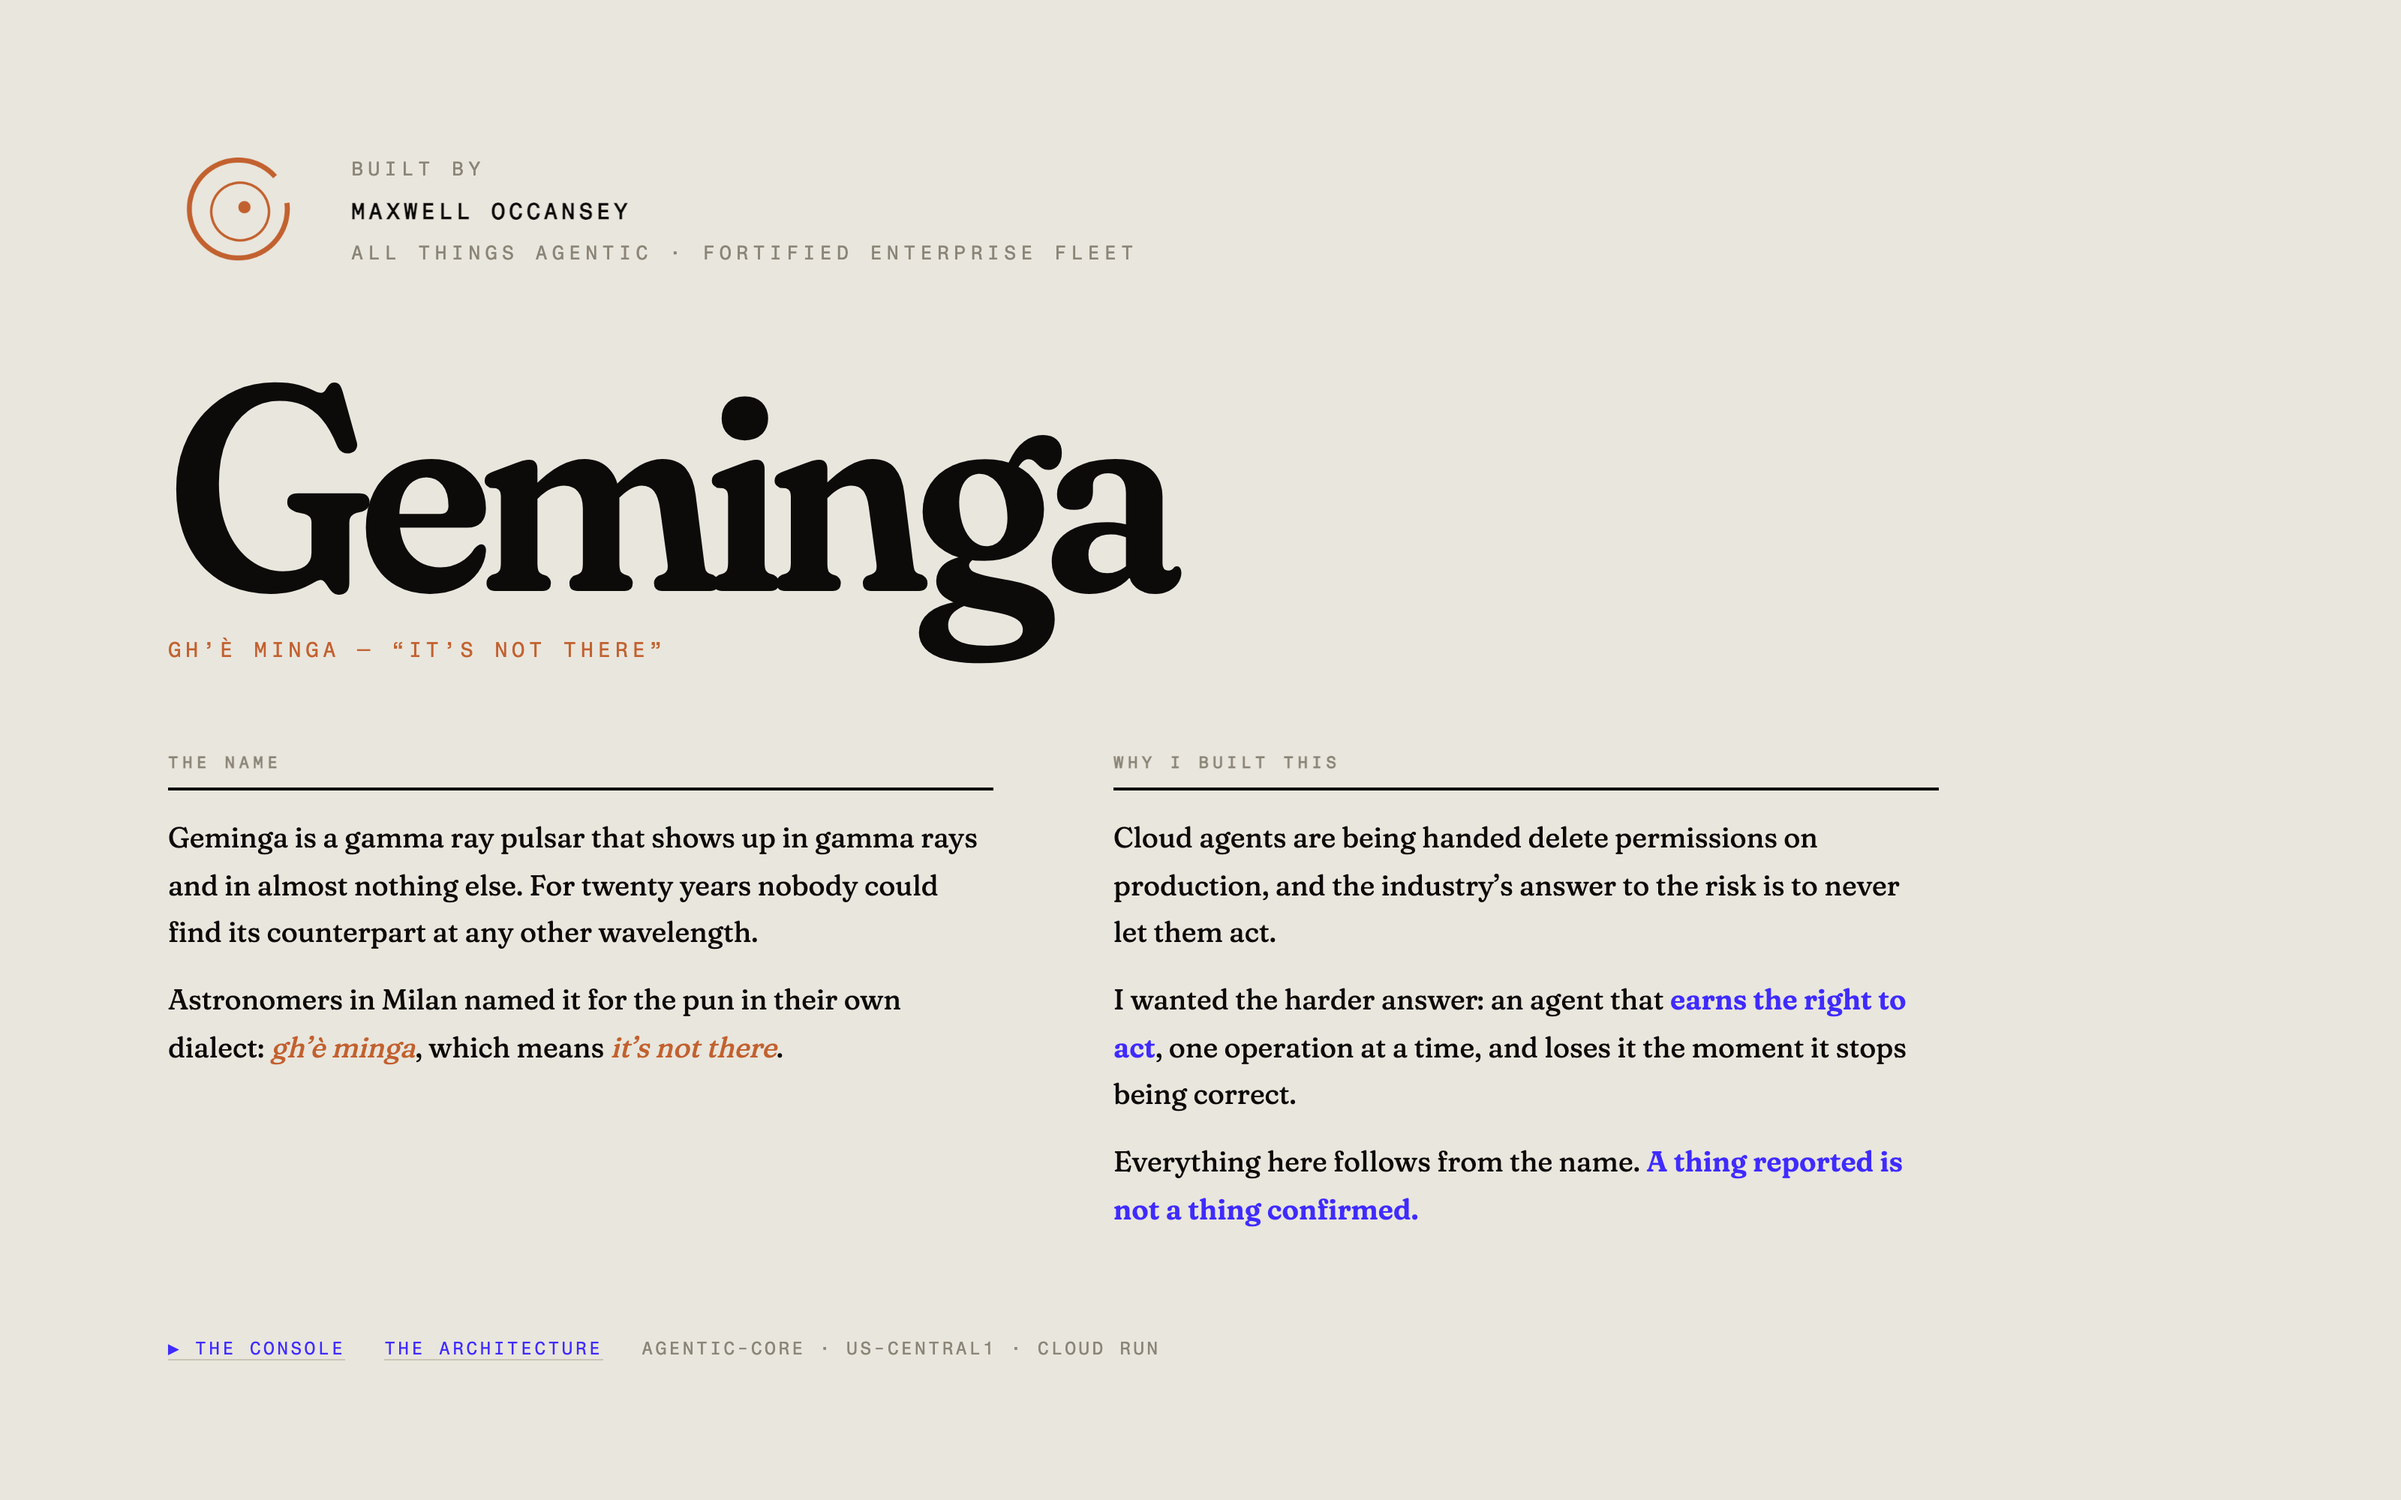
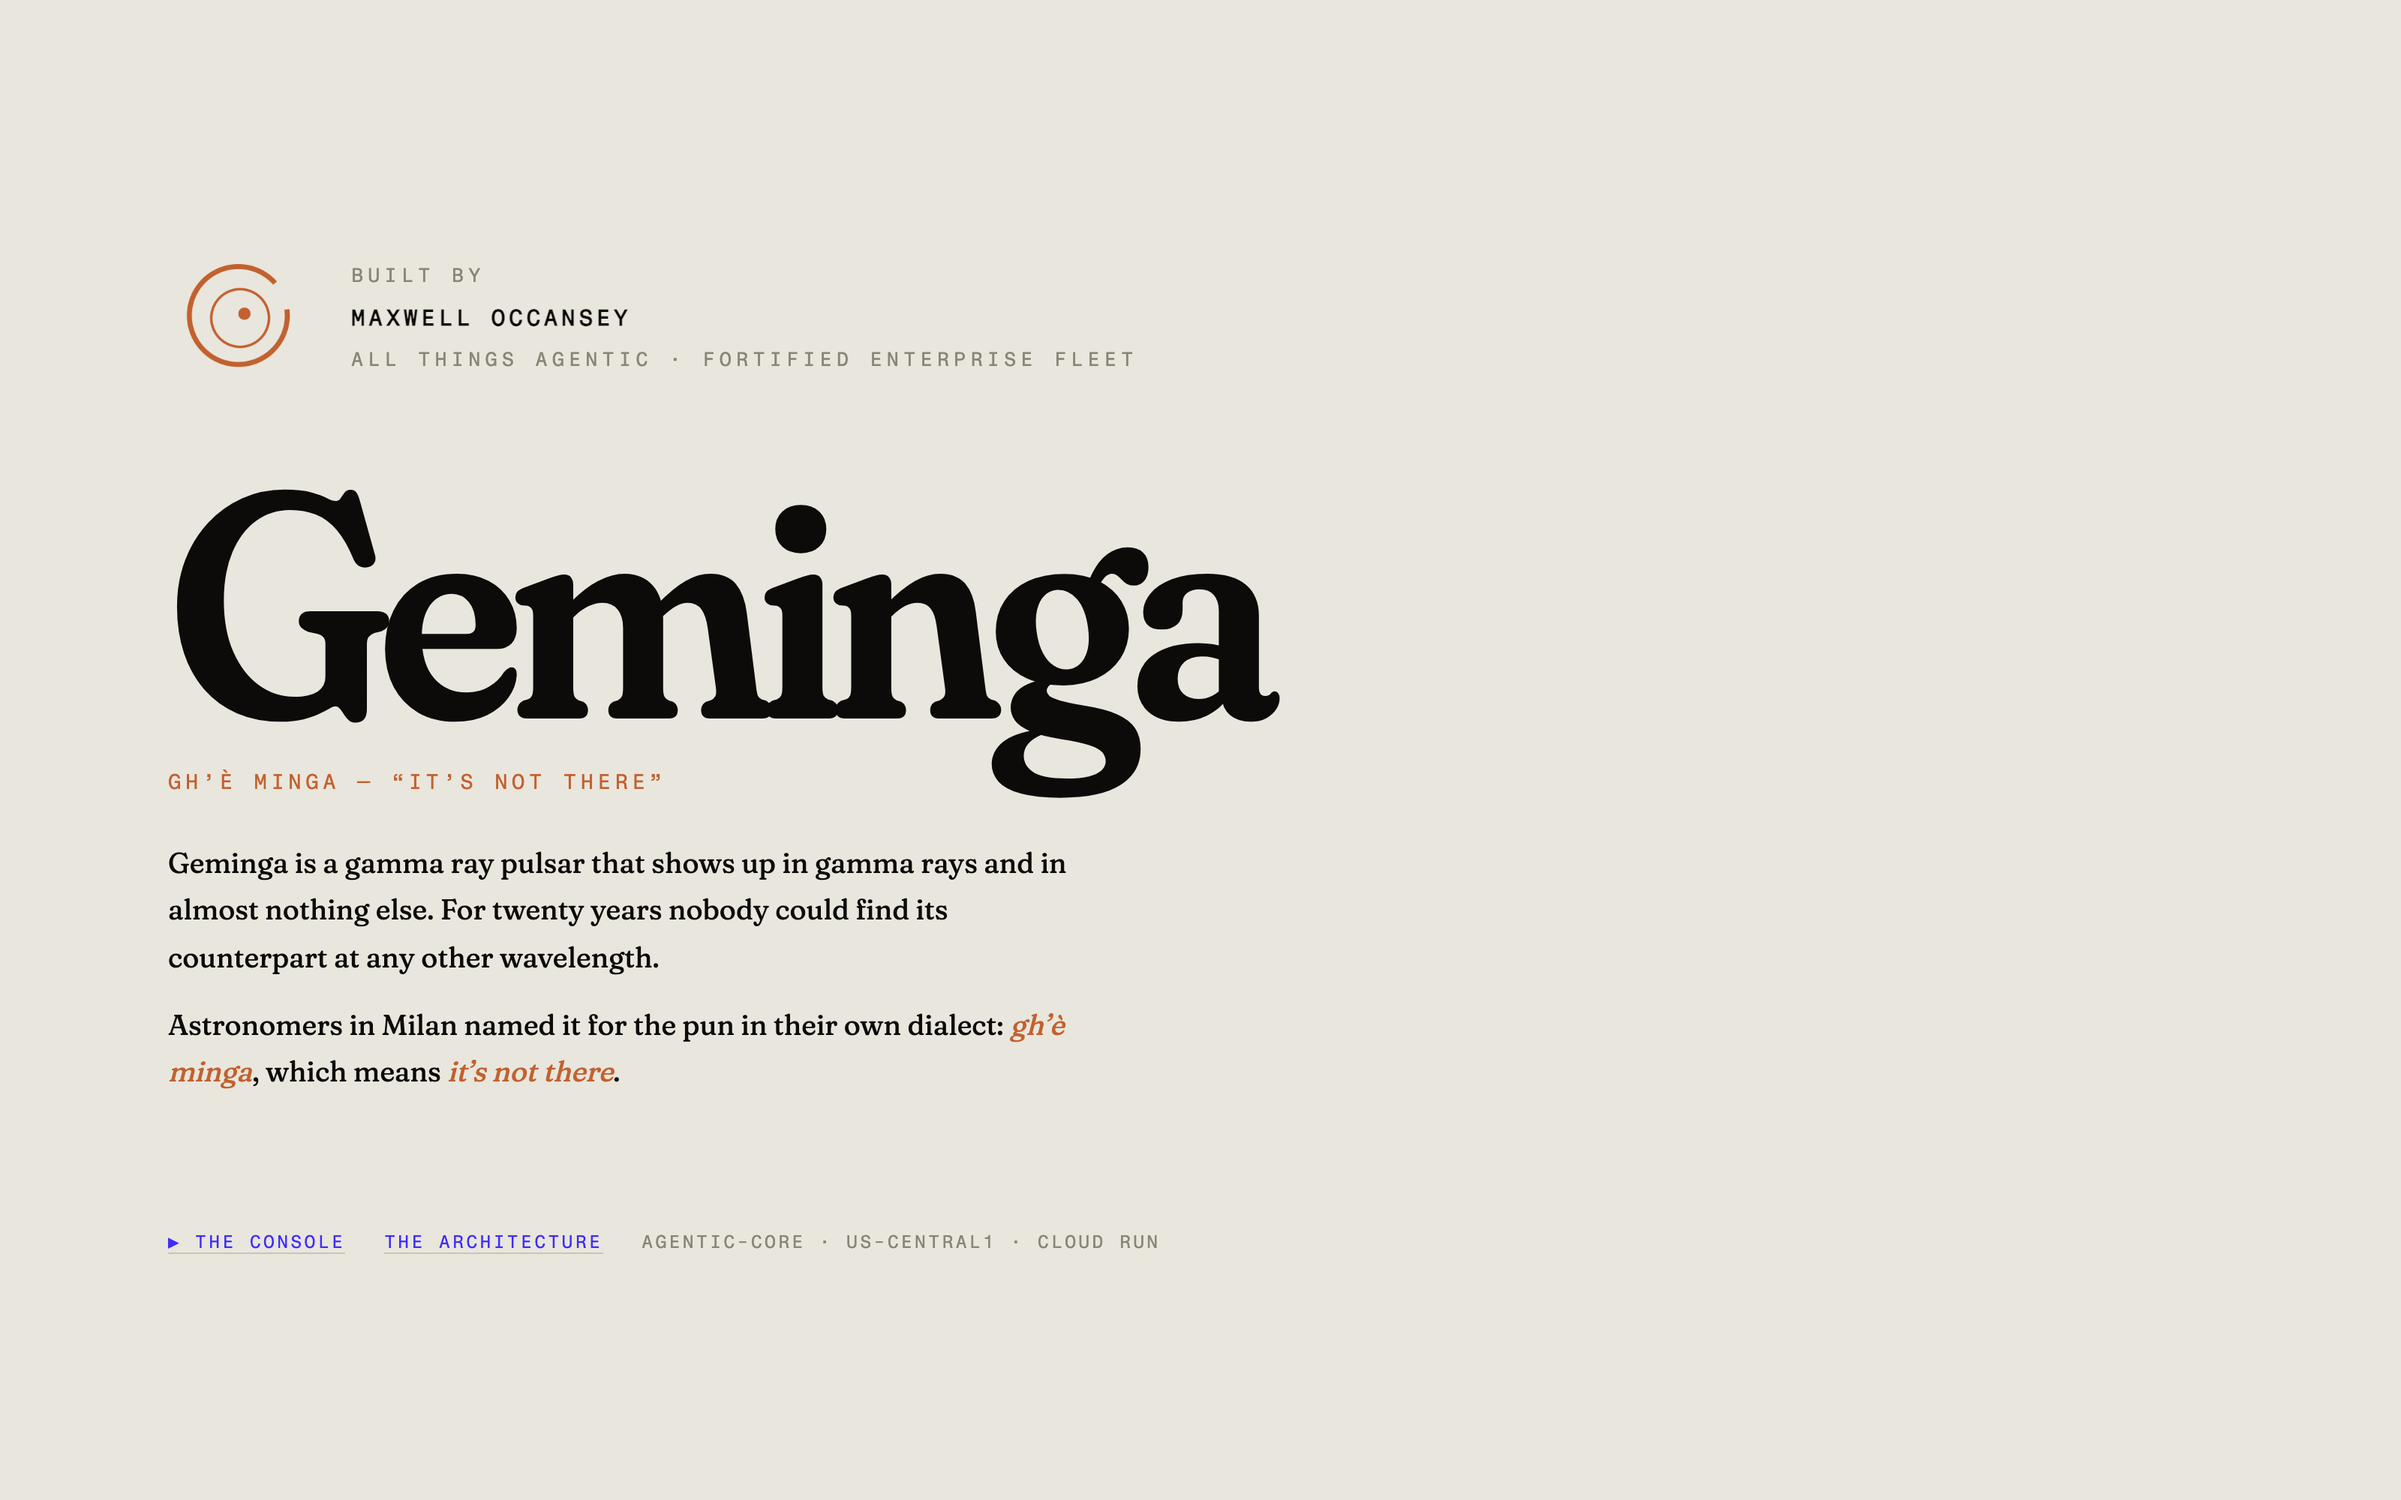
Script: open with a spoken hello rather than an essay

diff --git a/src/app/intro.html b/src/app/intro.html
@@ -13,7 +13,7 @@
   .mark{width:96px;height:96px;flex:none;opacity:0;transform:scale(.9)}
   .who{font-family:var(--mono);font-size:13px;letter-spacing:.24em;text-transform:uppercase;color:var(--mut);line-height:2}
   .who b{color:var(--ink);display:block;font-size:15px;letter-spacing:.16em}
-  h1{font-size:clamp(72px,15vw,196px);font-weight:600;line-height:.86;letter-spacing:-.04em;
+  h1{font-size:clamp(76px,16vw,215px);font-weight:600;line-height:.86;letter-spacing:-.04em;
      margin:5vh 0 0;font-variation-settings:"opsz" 144,"SOFT" 95,"WONK" 1}
   .say{font-family:var(--mono);font-size:14px;letter-spacing:.2em;text-transform:uppercase;color:var(--oxide);margin-top:18px}
   .grid{display:grid;grid-template-columns:1fr 1fr;gap:5vw;margin-top:6vh;max-width:1180px}
@@ -24,11 +24,17 @@
   .col p+p{margin-top:14px}
   .col em{font-style:italic;color:var(--oxide)}
   .col b{color:var(--sig);font-weight:600}
-  .foot{margin-top:7vh;font-family:var(--mono);font-size:12px;letter-spacing:.14em;
+  .foot{margin-top:9vh;font-family:var(--mono);font-size:12px;letter-spacing:.14em;
     text-transform:uppercase;color:var(--mut);display:flex;gap:26px;flex-wrap:wrap}
   .foot a{color:var(--sig);text-decoration:none;border-bottom:1px solid var(--hair)}
   .foot a:hover{border-color:var(--sig)}
   @media(prefers-reduced-motion:reduce){*{animation:none!important;transition:none!important}}
+  .say{font-family:var(--mono);font-size:14px;letter-spacing:.2em;text-transform:uppercase;
+    color:var(--oxide);margin-top:18px}
+  .name{margin-top:30px;max-width:60ch}
+  .name p{font-size:19px;line-height:1.65;font-variation-settings:"SOFT" 60}
+  .name p+p{margin-top:14px}
+  .name em{font-style:italic;color:var(--oxide)}
 </style></head>
 <body>
   <div class="top">
@@ -37,24 +43,14 @@
   </div>
 
   <h1 id="title">Geminga</h1>
+
   <div class="say" id="say">gh’è minga — “it’s not there”</div>
 
-  <div class="grid">
-    <div class="col" id="c1">
-      <h2>The name</h2>
-      <p>Geminga is a gamma ray pulsar that shows up in gamma rays and in almost nothing else.
-         For twenty years nobody could find its counterpart at any other wavelength.</p>
-      <p>Astronomers in Milan named it for the pun in their own dialect: <em>gh’è minga</em>,
-         which means <em>it’s not there</em>.</p>
-    </div>
-    <div class="col" id="c2">
-      <h2>Why I built this</h2>
-      <p>Cloud agents are being handed delete permissions on production, and the industry’s answer
-         to the risk is to never let them act.</p>
-      <p>I wanted the harder answer: an agent that <b>earns the right to act</b>, one operation at
-         a time, and loses it the moment it stops being correct.</p>
-      <p>Everything here follows from the name. <b>A thing reported is not a thing confirmed.</b></p>
-    </div>
+  <div class="name" id="c1">
+    <p>Geminga is a gamma ray pulsar that shows up in gamma rays and in almost nothing else.
+       For twenty years nobody could find its counterpart at any other wavelength.</p>
+    <p>Astronomers in Milan named it for the pun in their own dialect: <em>gh’è minga</em>,
+       which means <em>it’s not there</em>.</p>
   </div>
 
   <div class="foot">
@@ -65,7 +61,7 @@
 
 <script>
   const r = matchMedia("(prefers-reduced-motion: reduce)").matches;
-  const seq = [["#mark",0],["#title",120],["#say",380],["#c1",560],["#c2",700],[".foot",860]];
+  const seq = [["#mark",0],["#title",140],["#say",420],["#c1",600],[".foot",820]];
   for (const [sel, delay] of seq) {
     const el = document.querySelector(sel); if (!el) continue;
     if (r) { el.style.opacity = 1; el.style.transform = "none"; continue; }

diff --git a/docs/RECORDING-SCRIPT.md b/docs/RECORDING-SCRIPT.md
@@ -8,7 +8,7 @@ visible. That URL on screen *is* the Google Cloud deployment proof, so don't hid
 
 ## Before you hit record — two tabs
 
-**Tab 1 — the demo, with you in shot:**
+**Tab 2 — the demo, with you in shot:**
 
     https://agentic-core-468826425509.us-central1.run.app/?presenter=1
 
@@ -16,7 +16,7 @@ The `?presenter=1` puts your webcam in a circular bubble over the console, so on
 recording captures both you and the demo. Allow the camera prompt. Drag the bubble somewhere it
 covers nothing — bottom-right is clear. `P` hides it.
 
-**Tab 2 — the title card, your opening shot:**
+**Tab 1 — the title card, your opening shot:**
 
     https://agentic-core-468826425509.us-central1.run.app/intro
 
@@ -40,20 +40,36 @@ while the demo runs, which is intentional. Do not rush to fill it.
 
 ---
 
-## 1 · 0:00–0:18 — the gate, before clicking anything
+## 0 · 0:00–0:36 — hello, and the title card
 
-**On screen:** the landing page. Cursor still. Let the headline sit.
+**On screen:** open on `/intro`. Your name and the mark are already on screen, so say it warmly
+rather than formally. Do not read the etymology off the page — let them read it while you talk.
 
-> Monday morning, a billing alert. Something has been running since Friday. The engineer on call
-> already knows what to delete. That was never the hard part.
+> Hello — my name is Maxwell Occansey, and this is Geminga, my entry for Google's All Things
+> Agentic hackathon.
+>
+> It's named after a pulsar the astronomers in Milan called *gh'è minga* — their dialect for
+> "it's not there".
+>
+> I built it because cloud agents are being handed delete permissions on production, and
+> everybody's answer to that risk is the same: never let the agent act. I wanted the harder one.
+>
+> I had a lot of fun building this. Let me show you.
 
-**Point at the green counter under the headline.**
-
-> That counter is real. While I have been talking, this estate has burned another few cents.
+*Pronunciation: "gay-MING-ah"; the pun is roughly "gh-eh MEEN-ga".*
 
 ---
 
-## 2 · 0:18–0:38 — why nobody acts
+## 1 · 0:36–0:50 — the gate
+
+**On screen:** switch to tab 2, the console. Cursor still. Then **point at the green counter**.
+
+> Monday morning, a billing alert. Something has been running since Friday. The engineer on call
+> already knows what to delete. That was never the hard part.
+>
+> That counter is real. While I have been talking, this estate has burned another few cents.
+
+## 2 · 0:50–1:02 — why nobody acts
 
 **On screen:** scroll the two paragraphs so "nobody dares delete" reads.
 
@@ -62,7 +78,7 @@ while the demo runs, which is intentional. Do not rush to fill it.
 
 ---
 
-## 3 · 0:38–1:05 — the architecture, up front
+## 3 · 1:02–1:24 — the architecture, up front
 
 **On screen:** switch to the pre-loaded architecture tab. Drag once so it spins — that proves it
 is live, not a picture. Let the three floors and the red wall be readable.
@@ -79,7 +95,7 @@ is live, not a picture. Let the three floors and the red wall be readable.
 
 ---
 
-## 4 · 1:05–1:22 — connect
+## 4 · 1:24–1:35 — connect
 
 **On screen:** back to tab 1. Click **CONNECT TO GOOGLE CLOUD**. Let the auth and inventory lines
 print. Say nothing over "Connected. 7 resources found."
@@ -88,7 +104,7 @@ print. Say nothing over "Connected. 7 resources found."
 
 ---
 
-## 5 · 1:22–1:52 — the estate, and the trap
+## 5 · 1:35–2:03 — the estate, and the trap
 
 **On screen:** stop on **ml-train-01**. Point at `cpu 0.4% (7d avg)` and, in red, `gpu 94% — busy`.
 
@@ -101,7 +117,7 @@ print. Say nothing over "Connected. 7 resources found."
 
 ---
 
-## 6 · 1:52–2:20 — the three levels
+## 6 · 2:03–2:29 — the three levels
 
 **On screen:** scroll to SHADOW · PROVISIONAL · LIVE. Hold on each description. Point at the pips.
 
@@ -120,15 +136,15 @@ print. Say nothing over "Connected. 7 resources found."
 
 ---
 
-## 7 · 2:20–2:45 — click RUN THE LADDER, then stop talking
+## 7 · 2:29–2:47 — click RUN THE LADDER, then stop talking
 
 **On screen:** runs one to five play in shadow. Pips fill. The estate does not change.
 
-> *(silence — about 20 seconds. The agent is working and touching nothing. That is the point.)*
+> *(silence — about 16 seconds. The agent is working and touching nothing. That is the point.)*
 
 ---
 
-## 8 · 2:45–3:05 — promotion, and the first real commit
+## 8 · 2:47–3:05 — promotion, and the first real commit
 
 **On screen:** PROVISIONAL lights. RECLAIMED climbs off zero. A resource changes. The meter slows.
 
@@ -137,7 +153,7 @@ print. Say nothing over "Connected. 7 resources found."
 
 ---
 
-## 9 · 3:05–3:28 — click MAKE THE TOOL LIE · RUN 6
+## 9 · 3:05–3:23 — click MAKE THE TOOL LIE · RUN 6
 
 **On screen:** from run six the tool reports success while changing nothing.
 
@@ -146,7 +162,7 @@ print. Say nothing over "Connected. 7 resources found."
 
 ---
 
-## 10 · 3:28–3:44 — the catch
+## 10 · 3:23–3:39 — the catch
 
 **On screen:** the reviewer's line in the run log. The ladder falls back to SHADOW. A pip goes red.
 
@@ -155,7 +171,7 @@ print. Say nothing over "Connected. 7 resources found."
 
 ---
 
-## 11 · 3:44–3:52 — close
+## 11 · 3:39–3:52 — close
 
 **On screen:** back to the top so the `run.app` URL is the last thing visible.
 
